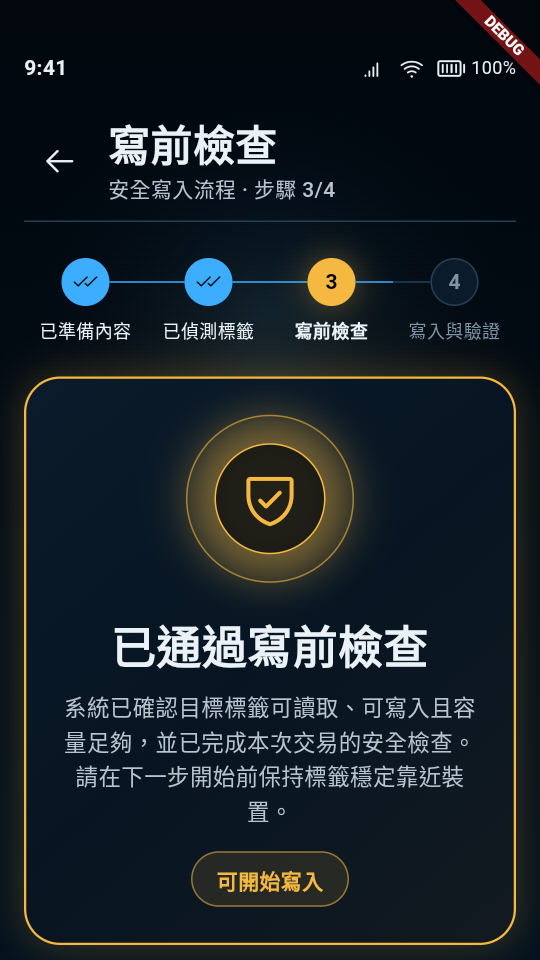
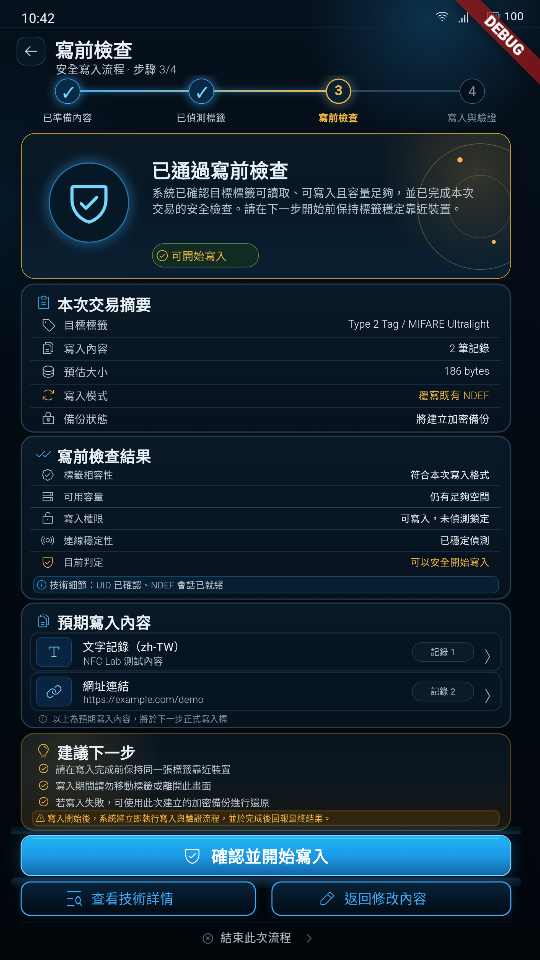
docs(ui): 完成C4與C5修正驗收

diff --git a/docs/audits/milestone_33/33-c5_corrective_holistic_final_review.md b/docs/audits/milestone_33/33-c5_corrective_holistic_final_review.md
@@ -1,0 +1,51 @@
+---
+document_type: final-review
+status: accepted
+authoritative_for:
+  - milestone-33-corrective-holistic-final-review
+last_reviewed_baseline: 1.15.0
+---
+
+# Task 33-C5 — Corrective Holistic Final Review
+
+## Verdict
+
+PASS。C1→CP2→C2→C3→C4 accepted corrective scope已完整落地；未發現Critical或Important production-code finding。C5發現一項documentation authority drift：visual authority manifest仍保留pre-CP2 runtime `0.08 / 8.0` hard-gate文字，已在本Task修正為Gate A、Gate B與Gate C三層authority。
+
+## Responsibility / Clean Architecture review
+
+- `WritePrecheckPage`只負責AutoRoute page boundary與`AppLocalizations`→`WritePrecheckCopy`組裝。
+- `WritePrecheckView`只負責Scaffold、viewport width與scroll/container composition。
+- `WritePrecheckProjectedCanvas`、projection helpers與rendering primitives只承擔accepted Pencil design-space projection與presentation rendering。
+- `pencil_compatibility`仍為presentation-only feature；沒有Domain、Data、Repository、UseCase、Bloc、service或DI registration。
+- Router、Theme、Localization authority仍沿用app/current Flutter authority；未新增跨feature dependency或Design System污染。
+
+## Rendering / code review
+
+- production whole-screen tree只有`WritePrecheckProjectedCanvas`一套；沒有breakpoint-specific第二hierarchy或mobile-only renderer。
+- design geometry與component-local calibration屬accepted `.pen` geometry / renderer calibration；未發現candidate-derived crop、ignore-region、threshold mutation或test-only shortcut。
+- `_ProjectionTextScaler`保留使用者base text scaling後再套projection scale；responsive與semantic tests證明不同viewport可scroll且無overflow exception。
+- `_RenderProjectedStack`只校正positioned parent-data到projected coordinate system，沒有domain/application side effect。
+- `_ProjectedComponent`的local design-space→runtime transform是C3實證後保留的renderer calibration；移除會破壞Gate B，因此不視為可任意刪除的visual hack。
+- 未發現full-screen `FittedBox`、top-level screenshot/raster embedding、hidden test renderer或production test flag。
+
+## Test architecture review
+
+- architecture contract直接掃描current feature source並禁止Domain/Data/Repository/UseCase/Bloc/DI/raster embedding與parallel whole-screen renderer。
+- route/copy/view/responsive/semantics tests各自驗證不同contract；golden與visual-diff分別負責stable raster與thresholded comparison。
+- runtime visual diff fresh驗證production tree；Gate B hard threshold維持`ratio <= 0.10`、`mean <= 4.0`，Gate C僅記錄diagnostic。
+- 2026-08-09 fresh focused suite：16 tests PASS。
+- fresh Gate B：`0.09769965277777778 / 2.495971137152778` PASS。
+- fresh Gate C：`0.1297222222222222 / 3.8164214409722224` diagnostic only。
+
+## Visual authority chain
+
+`.pen` → canonical Pencil preview → projected runtime reference → production renderer → runtime golden → Android runtime → human acceptance仍一致。Gate A保持`0.08 / 8.0`；Gate B保持`0.10 / 4.0`；Gate C不得升格為hard gate。
+
+## Findings disposition
+
+| Finding | Severity | Disposition |
+|---|---|---|
+| Manifest仍以舊`0.08 / 8.0`描述runtime threshold | Important documentation authority drift | Fixed in C5；改為Gate A/B/C current authority |
+
+Production implementation無需為C5額外重構。後續只允許release/documentation synchronization與verification，不得為追Gate C再調renderer。

diff --git a/docs/roadmap/active.md b/docs/roadmap/active.md
@@ -13,7 +13,7 @@ last_reviewed_baseline: 1.15.0
 ```txt
 Milestone 33 — Repository-local Pencil-to-Flutter Workflow Foundation
 Template Baseline: 1.15.0
-Current phase: Corrective C3 single-renderer implementation candidate / review pending
+Current phase: Corrective C5 holistic final review passed / 1.15.1 release closure pending
 ```
 
 ## Active Scope
@@ -26,7 +26,7 @@ Milestone 33 建立 repository-local `.pen` visual authority、third-party Skill
 - Accepted Implementation Plan：`docs/superpowers/plans/2026-08-04-milestone-33-repository-local-pencil-to-flutter-workflow-foundation.md`
 - Plan review：`docs/audits/milestone_33/33-p_implementation_plan_review.md`
 
-原Milestone 33 Tasks 33-1至33-12曾完成canonical ADR、Skill／visual authority、Pencil MCP extraction、Flutter proof、deterministic diff與Holistic Final Review，並發布Template Baseline 1.15.0；但使用者後續人工runtime驗收揭露parallel whole-screen renderer P1，因此原closure結論已被Corrective supersede。Corrective Design／Plan、C1治理契約、C2 runtime contract與2026-08-08 Runtime Renderer Calibration Amendment均已完成雙層治理。Current C3 single-renderer production candidate已達current automated Gate A／Gate B、architecture與responsive health，但尚未完成C3 focused／Whole-Task review與completion commit；C4 Android人工驗收與C5 release closure均未開始。Current checkpoint：`docs/audits/milestone_33/33-c3_cross_conversation_checkpoint.md`。
+原Milestone 33 closure因parallel whole-screen renderer P1被Corrective supersede。Corrective C1／CP2／C2／C3均已完成雙層治理；C3 completion commit為`de4178c`。C4 fresh Android runtime與使用者人工visual acceptance已PASS；C5 responsibility boundary、Clean Architecture、code、test architecture、anti-cheat與documentation reconciliation review亦已PASS。Current release action為Template Baseline 1.15.1 patch closure。
 
 ## Latest Completed Milestone
 
@@ -39,11 +39,9 @@ Milestone 32 — CI產物本機化與GitHub儲存空間切換已完成Design、P
 ## Current Next Action
 
 ```txt
-讀取33-c3 cross-conversation checkpoint與accepted calibration amendment
-→ review目前C3 dirty implementation candidate，移除沒有current authority支持的Gate C overfitting
-→ fresh Gate A／Gate B／single-renderer architecture／responsive／affected regression
-→ C3 focused review + Whole-Task review + completion commit
-→ C4 fresh Android build/install、runtime screenshot與side-by-side
-→ 使用者實際BlueStacks視覺驗收
-→ 通過後才進C5 Corrective Holistic Final Review／1.15.1 disposition／post-release closure
+完成1.15.1 release metadata/documentation synchronization
+→ fresh repository verification
+→ merge corrective branch回main並push
+→ post-release validation
+→ 確認main/origin/main/VERSION/tag/working tree/docs一致後封存Milestone 33
 ```

diff --git a/docs/project_context.md b/docs/project_context.md
@@ -30,7 +30,7 @@ last_reviewed_baseline: 1.15.0
 Template Baseline: 1.15.0
 Phase 1 / MVP: Completed
 Current active milestone: Milestone 33 — Repository-local Pencil-to-Flutter Workflow Foundation
-Current phase: Task 33-13 integration, 1.15.0 release and post-release validation
+Current phase: Corrective C5 holistic final review passed / 1.15.1 release closure pending
 Latest completed initiative: Milestone 32 CI產物本機化與GitHub儲存空間切換
 Architecture Decision authority: docs/adr/README.md
 ```
@@ -353,13 +353,13 @@ Current iOS deployment baseline為15.0。
 
 ```txt
 Current active milestone: Milestone 33 — Repository-local Pencil-to-Flutter Workflow Foundation
-Current phase: Corrective C3 single-renderer implementation candidate / review pending
+Current phase: Corrective C5 holistic final review passed / 1.15.1 release closure pending
 Latest completed initiative: Milestone 32 CI產物本機化與GitHub儲存空間切換
 Maintenance mode: Active governed milestone
 Open Audit remediation findings: Milestone 33 runtime single-renderer corrective active
 ```
 
-Milestone 33已發布Template Baseline 1.15.0，但後續使用者runtime人工驗收揭露parallel whole-screen renderer P1，原Milestone 33 visual closure已被Corrective supersede。Corrective C1／C2與Runtime Renderer Calibration Amendment已accepted；C3目前為single-renderer implementation candidate且尚待正式Task review。Current `.pen` authority仍位於`docs/design_sources/pencil-compatibility-write-precheck/source.pen`並由manifest鎖定；current cross-conversation checkpoint為`docs/audits/milestone_33/33-c3_cross_conversation_checkpoint.md`。Current human workflow入口為`docs/guides/pencil_to_flutter_workflow.md`；active execution／closure routing由`docs/roadmap/active.md`與`docs/milestones/README.md`擁有。
+Milestone 33已發布Template Baseline 1.15.0，但後續使用者runtime人工驗收揭露parallel whole-screen renderer P1，原visual closure因此被Corrective supersede。Corrective C1／CP2／C2／C3均已accepted並完成；C4 fresh Android runtime與使用者人工visual acceptance已PASS，C5 holistic final review亦已PASS，目前只剩1.15.1 patch release與post-release closure。Current `.pen` authority仍位於`docs/design_sources/pencil-compatibility-write-precheck/source.pen`並由manifest鎖定；current human workflow入口為`docs/guides/pencil_to_flutter_workflow.md`。
 
 Latest completed initiative的Design、Plan、final review與post-release evidence由`docs/milestones/README.md`路由。
 

diff --git a/docs/milestones/README.md b/docs/milestones/README.md
@@ -33,7 +33,7 @@ Milestone routing 只回答：
 ```txt
 Milestone 33 — Repository-local Pencil-to-Flutter Workflow Foundation
 Template Baseline: 1.15.0
-Phase: Corrective C3 single-renderer implementation candidate / review pending
+Phase: Corrective C5 holistic final review passed / 1.15.1 release closure pending
 ```
 
 目前active authority：`docs/roadmap/active.md`。
@@ -52,8 +52,10 @@ Phase: Corrective C3 single-renderer implementation candidate / review pending
 - Corrective C2 review：`docs/audits/milestone_33/33-c2_runtime_visual_contract_review.md`
 - Runtime Renderer Calibration Amendment：`docs/superpowers/specs/2026-08-08-milestone-33-corrective-runtime-renderer-calibration-amendment-design.md`
 - Calibration amendment review：`docs/audits/milestone_33/33-cp2_runtime_renderer_calibration_amendment_review.md`
-- Current C3 checkpoint：`docs/audits/milestone_33/33-c3_cross_conversation_checkpoint.md`
-- Latest accepted corrective work：C1、C2與Runtime Renderer Calibration Amendment；C3 implementation candidate尚待focused／Whole-Task review與completion commit，C4／C5未開始。
+- C3 implementation review：`docs/audits/milestone_33/33-c3_single_renderer_implementation_review.md`
+- C4 Android runtime acceptance：`docs/audits/milestone_33/33-c4_android_runtime_acceptance.md`
+- C5 Corrective Holistic Final Review：`docs/audits/milestone_33/33-c5_corrective_holistic_final_review.md`
+- Latest accepted corrective work：C1／CP2／C2／C3／C4／C5均已PASS；1.15.1 release closure pending。
 - Reusable workflow Guide：`docs/guides/pencil_to_flutter_workflow.md`
 - Historical pre-corrective holistic final review：`docs/audits/milestone_33/33-12_holistic_final_review.md`；不得覆蓋current Corrective authority。
 

diff --git a/docs/visual_authority/pencil-compatibility-write-precheck/manifest.md b/docs/visual_authority/pencil-compatibility-write-precheck/manifest.md
@@ -77,11 +77,14 @@ Derived bytes: 131042
 Derived SHA-256: 8386e4fa6ad49d108b9887796eb3c02643aaae9ba0161afa10d0662ab4b2c275
 
 Per-channel tolerance: 8
-Different-pixel ratio threshold: <= 0.08
-Mean absolute channel delta threshold: <= 8.0
+Gate A canonical Pencil/Flutter threshold: different-pixel ratio <= 0.08; mean absolute channel delta <= 8.0
+Gate B runtime/projected-canonical threshold: different-pixel ratio <= 0.10; mean absolute channel delta <= 4.0
+Gate C direct Pencil/runtime comparison: diagnostic only; no standalone PASS threshold
 ```
 
 Projection由`apps/flutter_architecture/test/support/visual_diff.dart`的`projectPng`產生；tracked reference只有在顯式`UPDATE_PENCIL_RUNTIME_REFERENCE=true` gate下可重建。Default test會fresh投影到temporary file並要求與tracked bytes完全一致。Candidate失敗後不得更換target、projection、crop、threshold或ignore regions。
+
+Runtime acceptance authority已由2026-08-08 accepted Runtime Renderer Calibration Amendment校正：Gate B使用同一Flutter renderer family的projected canonical reference作hard gate；Gate C保留cross-renderer diagnostic，避免把Pencil/Flutter rasterizer與downsample差異誤判為production failure。Android runtime最終仍需人工visual acceptance。
 
 此derived runtime reference只作comparison evidence，不取得`.pen` structure／visual authority，也不改變canonical source ranking。
 

diff --git a/docs/audits/milestone_33/33-c4_android_runtime_acceptance.md b/docs/audits/milestone_33/33-c4_android_runtime_acceptance.md
@@ -1,0 +1,33 @@
+---
+document_type: runtime-evidence
+status: accepted
+authoritative_for:
+  - milestone-33-c4-android-runtime-acceptance
+last_reviewed_baseline: 1.15.0
+---
+
+# Task 33-C4 — Android Runtime Acceptance
+
+## Result
+
+PASS。使用者已於2026-08-09對fresh Android development runtime完成正式人工視覺驗收，結論為「UI還原得非常好，審查通過」。此gate不得因後續C5 review重新要求人工驗收。
+
+## Runtime evidence
+
+- flavor：`development`
+- entry：`lib/main_development.dart`
+- API mode：`mock`
+- package：`com.example.flutterarchitecture.development`
+- target：`emulator-5554`
+- install：`Success`
+- physical：`540 × 960`
+- DPR：`1.5`
+- logical：`360 × 640`
+- textScale：`1.0`
+- integration runtime capture：PASS
+- tracked screenshot：`docs/audits/milestone_33/visual_validation/android-runtime-screenshot.png`
[1 lines of base64/hex data omitted]
+
+Android→Windows raster comparison `ratio=0.17700520833333333`、`mean=4.175001085069445`只作cross-platform rasterizer diagnostic，不是hard gate。Android runtime hard acceptance由本次人工visual review擁有。
+
+Integration-only manual hold source `integration_test/pencil_compatibility_manual_hold_test.dart`已刪除，不屬於repository source。

diff --git a/docs/roadmap.md b/docs/roadmap.md
@@ -28,7 +28,7 @@ Other platforms: Dependency-ready
 ```txt
 Milestone 33 — Repository-local Pencil-to-Flutter Workflow Foundation
 Template Baseline: 1.15.0
-Phase: Corrective C3 single-renderer implementation candidate / review pending
+Phase: Corrective C5 holistic final review passed / 1.15.1 release closure pending
 ```
 
 完整 active scope、design、gate與 next action：
